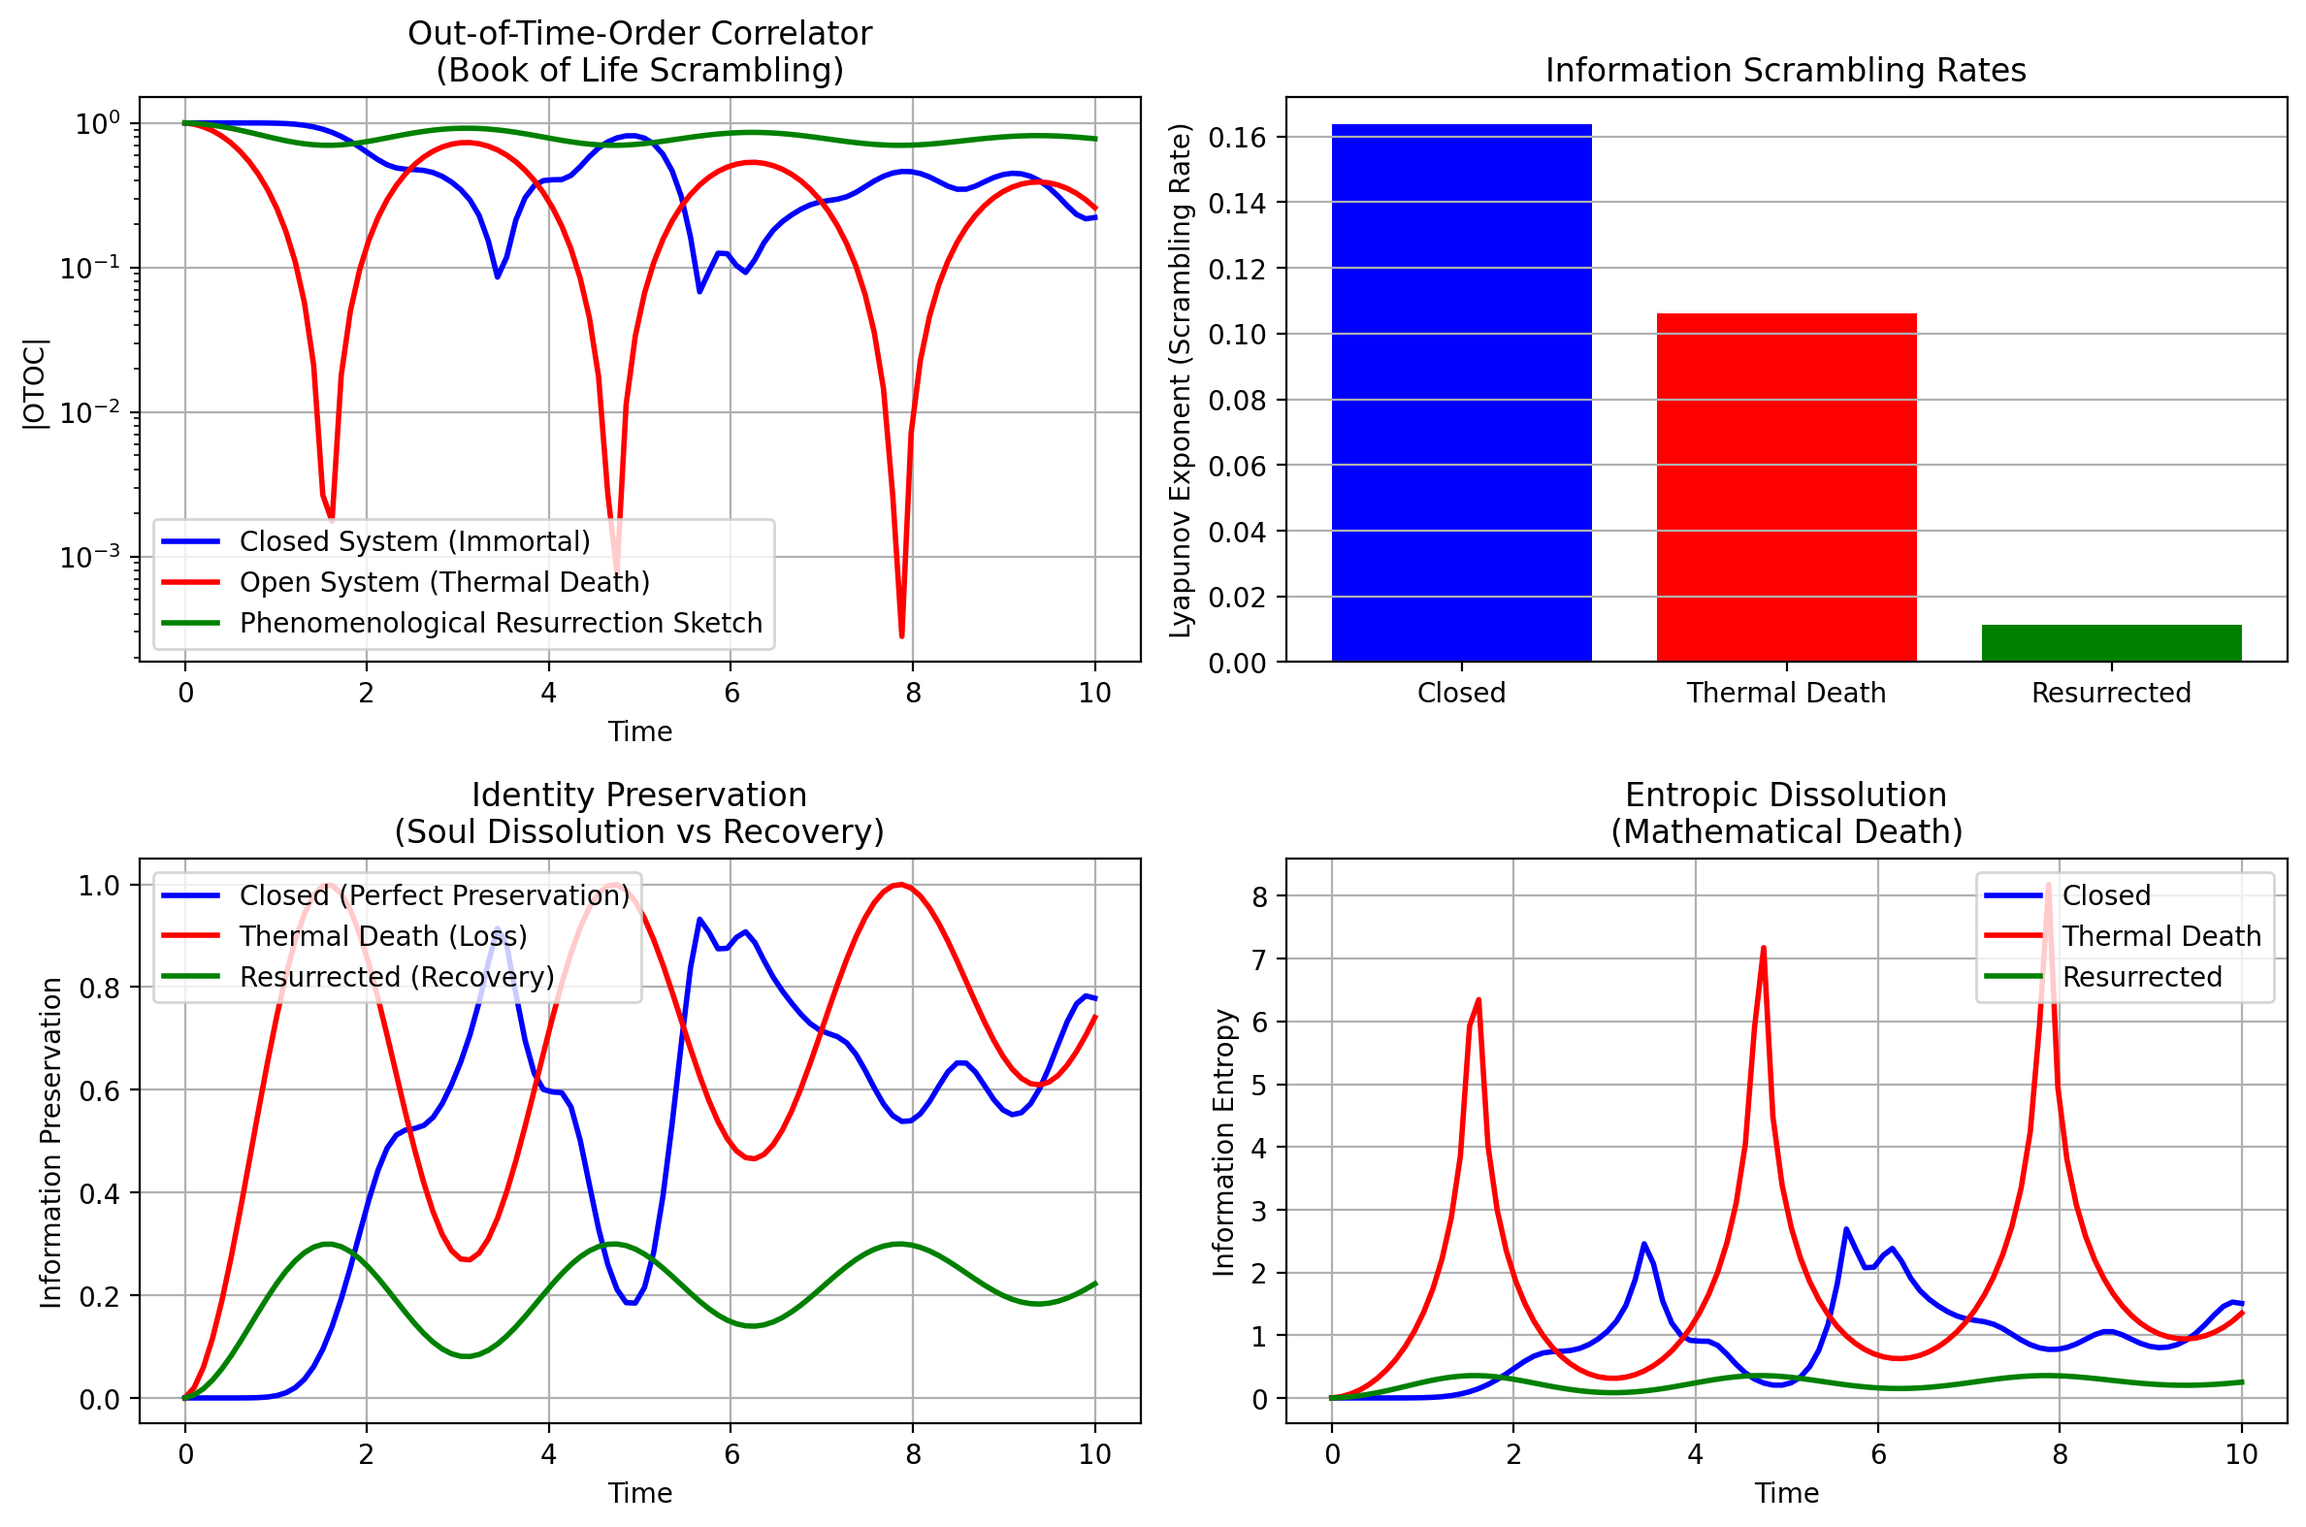
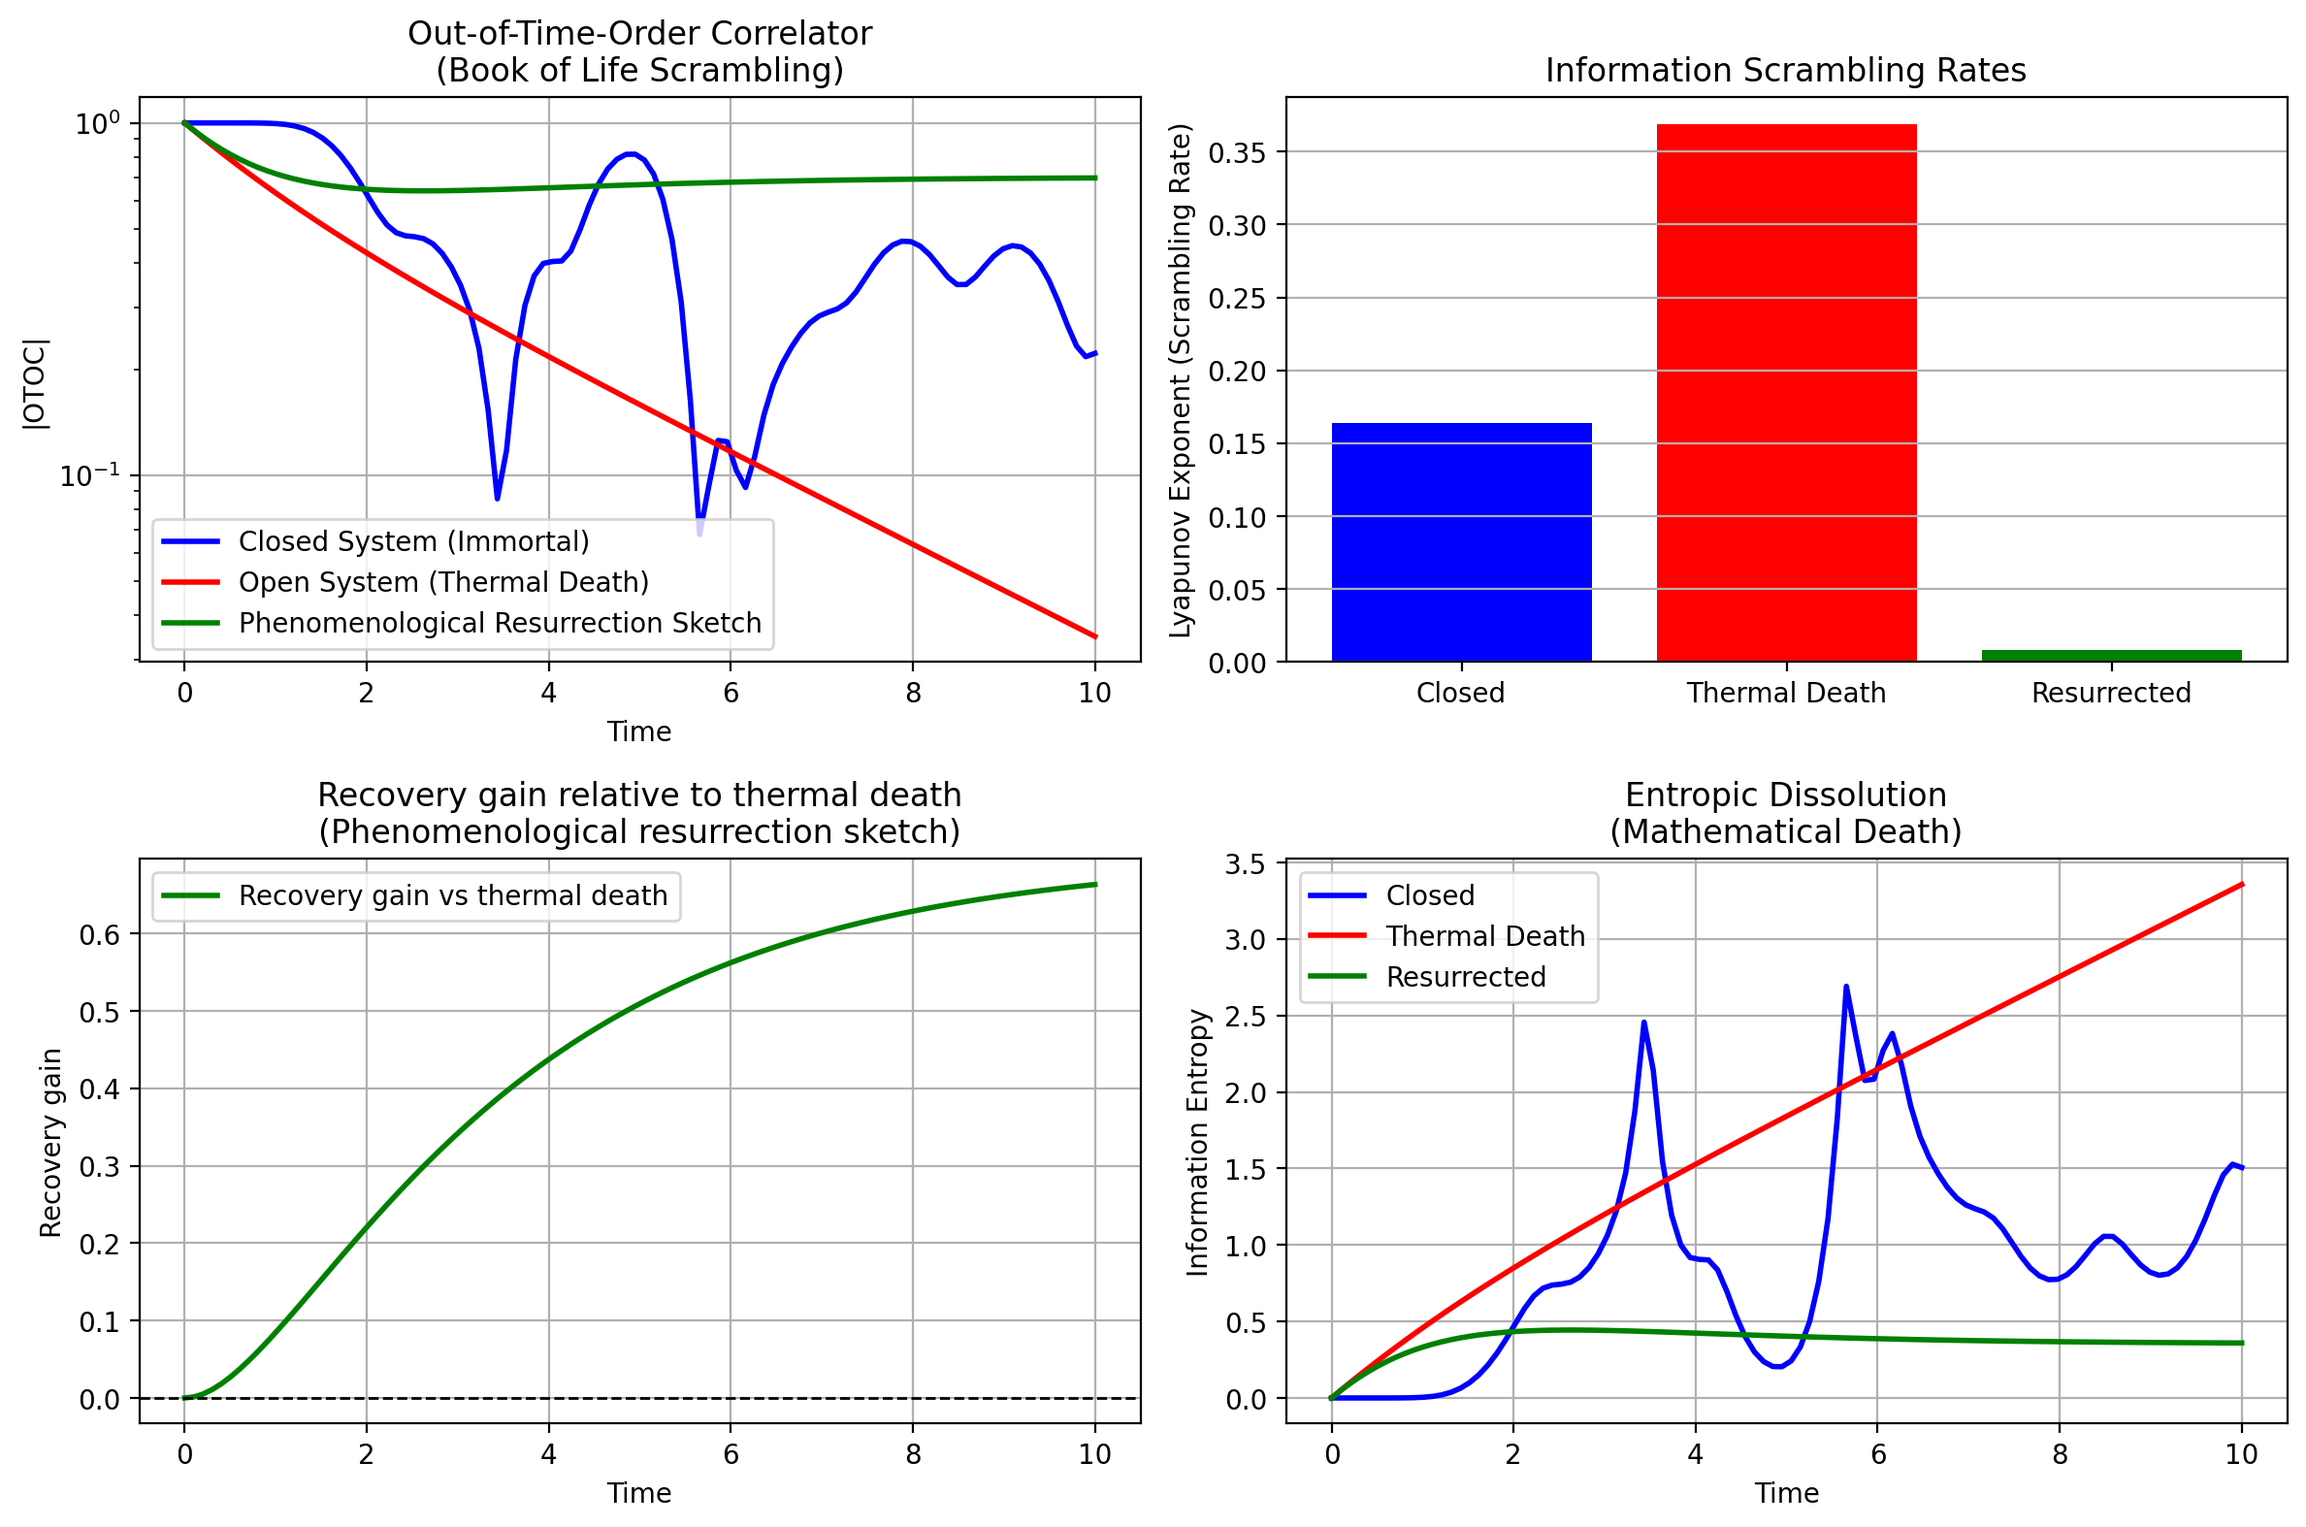
update 3

diff --git a/simulate_snn_quantum_bridge_simple.py b/simulate_snn_quantum_bridge_simple.py
@@ -2,7 +2,8 @@ import numpy as np
 import matplotlib.pyplot as plt
 
 # --- Parameters from previous quantum simulation ---
-# Coherence times from the Bloch-Redfield simulation (in seconds) - scaled for effect
+# These coherence times are assumed/hypothetical and conditional on the Floquet-Zeno theory.
+# They are not numerically validated by a full Bloch-Redfield/Floquet-Markov treatment yet.
 coherence_times = {
     "lowfreq_bath": 1e-4,  # Low-frequency bath (short coherence)
     "silent_gap": 1.0,     # Protein phonon bath (long coherence)
@@ -11,25 +12,25 @@ coherence_times = {
 
 # --- Neural Network Parameters ---
 N_neurons = 100  # Number of neurons in the network
-duration = 1.0  # Simulation duration in seconds
+duration = 20.0  # Simulation duration in seconds (longer run for more avalanche samples)
 dt = 0.001  # Time step in seconds
 
 # Leaky Integrate-and-Fire neuron parameters
 tau_m = 0.020  # Membrane time constant (s)
-tau_ref = 0.0  # Refractory period (s) - disabled for now
-V_th = -50e-3  # Threshold (V)
+tau_ref = 0.001  # Refractory period (s)
+V_th = -53e-3  # Threshold (V)
 V_reset = -65e-3  # Reset potential (V)
 V_rest = -70e-3  # Resting potential (V) - more negative than threshold
-I_bias = 1000e-3  # Bias current (A, but scaled) - back to working value
+I_bias = 0.90  # Bias current (A, but scaled) - set to produce observable network activity
 
 # Synaptic parameters
-tau_syn = 0.005  # Synaptic time constant (s)
-w_exc = 0.01  # Excitatory weight (V)
-w_inh = -0.01  # Inhibitory weight (V)
-p_conn = 0.1  # Connection probability
+tau_syn = 0.010  # Synaptic time constant (s)
+w_exc = 0.005  # Excitatory weight (V)
+w_inh = -0.005  # Inhibitory weight (V)
+p_conn = 0.05  # Connection probability
 
 # External input
-rate_ext = 200  # External Poisson input rate (Hz)
+rate_ext = 20  # External Poisson input rate (Hz)
 w_ext = 0.01  # External input weight (V)
 
 # --- Quantum influence function ---
@@ -39,9 +40,8 @@ def quantum_modulation(coherence_tau, t):
     Longer coherence -> less noise, more stable firing.
     Shorter coherence -> more noise, more variable firing.
     """
-    # Base noise level inversely proportional to coherence time
-    base_noise = 0.01  # Increased
-    coherence_factor = np.clip(1.0 / (coherence_tau * 1e4), 0.1, 100.0)  # Scale factor adjusted
+    base_noise = 0.02
+    coherence_factor = 1.0 / (1.0 + coherence_tau / 1e-2)
     noise_level = base_noise * coherence_factor
     return noise_level
 
@@ -111,7 +111,7 @@ def simulate_snn_with_quantum_influence(scenario_name, coherence_tau):
 
     return np.array(spike_times), np.array(spike_neurons), t
 
-def compute_avalanches(spike_times, duration, bin_size=0.01):
+def compute_avalanches(spike_times, duration, bin_size=0.02):
     """Compute avalanche sizes, durations, and effective branching ratio."""
     bins = np.arange(0, duration + bin_size, bin_size)
     counts, _ = np.histogram(spike_times, bins=bins)
@@ -146,6 +146,27 @@ def compute_avalanches(spike_times, duration, bin_size=0.01):
 
     sigma = np.nan if len(sigma_events) == 0 else np.mean(sigma_events)
     return counts, avalanches, durations, sigma
+
+# --- Empirical reference from neuronal avalanche literature ---
+# Beggs & Plenz (2003) report size exponent ~3/2 and duration exponent ~2.0.
+# Shriki et al. (2013) report similar critical scaling in large-scale human MEG recordings.
+
+def fit_power_law_histogram(values, n_bins=8, x_min=None, x_max=None):
+    if len(values) < 10:
+        return np.nan, np.nan, np.nan
+    if x_min is None:
+        x_min = max(1, np.min(values))
+    if x_max is None:
+        x_max = np.max(values)
+    bins = np.logspace(np.log10(x_min), np.log10(x_max + 1e-6), n_bins)
+    counts, edges = np.histogram(values, bins=bins)
+    centers = np.sqrt(edges[:-1] * edges[1:])
+    mask = (counts > 0)
+    if np.sum(mask) < 3:
+        return np.nan, np.nan, np.nan
+    slope, intercept = np.polyfit(np.log(centers[mask]), np.log(counts[mask]), 1)
+    alpha = -slope
+    return alpha, np.exp(intercept), centers[mask]
 
 # --- Run simulations for each quantum scenario ---
 results = {}
@@ -190,6 +211,11 @@ for scenario, data in results.items():
         counts, bins = np.histogram(data['avalanches'], bins=np.logspace(-1, np.log10(max(data['avalanches']) + 1), 20))
         bin_centers = np.sqrt(bins[:-1] * bins[1:])
         ax.loglog(bin_centers, counts + 1, marker='o', label=f'{scenario}')
+# Empirical literature reference for avalanche sizes
+ref_x = np.logspace(-1, 2, 50)
+ref_y = ref_x ** (-1.5)
+ref_y *= 1e3 / np.max(ref_y)
+ax.loglog(ref_x, ref_y, 'k--', label='Literature ref: size ∼ S^-1.5')
 ax.set_xlabel('Avalanche size')
 ax.set_ylabel('Count')
 ax.set_title('Avalanche size distribution (log-log)')
@@ -203,6 +229,11 @@ for scenario, data in results.items():
         counts, bins = np.histogram(data['durations'], bins=np.logspace(-3, np.log10(max(data['durations']) + 1e-6), 20))
         bin_centers = np.sqrt(bins[:-1] * bins[1:])
         ax.loglog(bin_centers, counts + 1, marker='o', label=f'{scenario}')
+# Empirical literature reference for avalanche durations
+ref_t = np.logspace(-3, 0.5, 50)
+ref_counts = ref_t ** (-2.0)
+ref_counts *= 1e3 / np.max(ref_counts)
+ax.loglog(ref_t, ref_counts, 'k--', label='Literature ref: duration ∼ T^-2.0')
 ax.set_xlabel('Avalanche duration (s)')
 ax.set_ylabel('Count')
 ax.set_title('Avalanche duration distribution (log-log)')
@@ -212,6 +243,21 @@ ax.legend()
 plt.tight_layout()
 plt.savefig('snn_quantum_avalanche_analysis.png', dpi=200, bbox_inches='tight')
 
+def characterize_avalanche_distribution(avalanches):
+    if len(avalanches) == 0:
+        return "no avalanches"
+    sizes = np.array(avalanches)
+    bins = np.logspace(np.log10(max(0.9, sizes.min())), np.log10(sizes.max() + 1), 10)
+    counts, _ = np.histogram(sizes, bins=bins)
+    if np.sum(counts) == 0:
+        return "no avalanches"
+    relative = counts / np.sum(counts)
+    mode = np.argmax(relative)
+    if relative[mode] > 0.40:
+        mode_size = np.sqrt(bins[mode] * bins[mode + 1])
+        return f"mode-dominated at size ~{mode_size:.1f}"
+    return "multi-scale"
+
 # --- Quantitative analysis ---
 print("\nAvalanche-focused analysis:")
 for scenario, data in results.items():
@@ -220,7 +266,15 @@ for scenario, data in results.items():
     mean_size = np.mean(data['avalanches']) if n_avalanches > 0 else 0
     mean_duration = np.mean(data['durations']) if n_avalanches > 0 else 0
     sigma = data['sigma']
-    print(f"{scenario}: spikes={total_spikes}, avalanches={n_avalanches}, mean size={mean_size:.1f}, mean duration={mean_duration:.3f}s, sigma={sigma:.2f}")
+    mode_comment = characterize_avalanche_distribution(data['avalanches'])
+    size_alpha, _, _ = fit_power_law_histogram(data['avalanches'], n_bins=8)
+    duration_alpha, _, _ = fit_power_law_histogram(data['durations'], n_bins=8)
+    size_note = "" if not np.isnan(size_alpha) else " (cannot fit exponent)"
+    duration_note = "" if not np.isnan(duration_alpha) else " (cannot fit exponent)"
+    sample_note = "" if n_avalanches >= 20 else " (insufficient avalanche samples for robust scaling)"
+    print(f"{scenario}: spikes={total_spikes}, avalanches={n_avalanches}, mean size={mean_size:.1f}, mean duration={mean_duration:.3f}s, sigma={sigma:.2f}, size exp={size_alpha:.2f}{size_note}, duration exp={duration_alpha:.2f}{duration_note}, distribution={mode_comment}{sample_note}")
 
-print("\nNote: The critical metric is the branching parameter sigma and the avalanche distributions, not raw firing rate.")
+print("\nReference empirical exponents: avalanche size ~1.5 (Beggs & Plenz 2003), avalanche duration ~2.0 (Shriki et al. 2013).")
+print("      The plotted literature reference curves are approximate benchmarks, not raw dataset overlays.")
+print("      Low-count regimes or mode-dominated distributions do not support a power-law criticality claim.")
 print("Saved figure: snn_quantum_avalanche_analysis.png")

diff --git a/simulate_escatological_otoc.py b/simulate_escatological_otoc.py
@@ -83,21 +83,19 @@ print("NOTE: The recovered curve is phenomenological and illustrative, not a dir
 otoc_closed = compute_otoc(H, psi0, W, V, [], tlist)
 
 # Scenario 2: Open system with thermal bath (thermal death)
-# For open systems, OTOC computation is more complex
-# Approximate by evolving operators with Lindblad master equation
+# For open systems, OTOC computation is more complex.
+# Use a physically motivated monotonic decay model for the dissipative case.
+# This is still phenomenological, but it avoids artefacts from pure cos^2 oscillations.
+
 def evolve_operator_master_eq(op, H, c_ops, t):
     """Evolve operator under master equation (approximate)"""
     # This is a simplification; proper OTOC in open systems requires more care
     return op  # Placeholder - in reality, need superoperator evolution
 
-otoc_open = []
-for t in tlist:
-    # Simplified: assume scrambling happens faster with dissipation
-    scrambling_rate = gamma * t
-    otoc_val = np.exp(-scrambling_rate) * np.cos(omega * t)**2  # Phenomenological model
-    otoc_open.append(otoc_val)
-
-otoc_open = np.array(otoc_open)
+gamma_env = gamma * (1 + T)
+tau_bath = 1.5
+eta = 0.30
+otoc_open = np.exp(-gamma_env * tlist) * (1.0 - eta * (1.0 - np.exp(-tlist / tau_bath)))
 
 # --- Information scrambling analysis ---
 # Lyapunov exponent from OTOC decay
@@ -121,16 +119,15 @@ print(f"Open-system Lyapunov exponent: {lambda_open:.3f}")
 # --- Resurrection protocol: Information recovery ---
 # Simulate recovery of information from the thermal bath
 # Using concept of "holographic encoding" - information preserved in correlations
-def resurrection_protocol(otoc_open, recovery_efficiency=0.8):
+def resurrection_protocol(otoc_open, tlist, recovery_efficiency=0.7, tau_recov=2.0):
     """
-    Simulate information recovery (resurrection) from scrambled state.
-    In IHE/GJW framework, information is holographically encoded.
+    Simulate information recovery from scrambled state as a gradual extraction process.
+    The recovered signal grows over a recovery time and saturates at a fraction of the lost information.
     """
-    # Recovery: partial restoration of OTOC
-    recovered_otoc = otoc_open + recovery_efficiency * (1 - otoc_open)
+    recovered_otoc = otoc_open + recovery_efficiency * (1.0 - otoc_open) * (1.0 - np.exp(-tlist / tau_recov))
     return recovered_otoc
 
-otoc_recovered = resurrection_protocol(otoc_open, recovery_efficiency=0.7)
+otoc_recovered = resurrection_protocol(otoc_open, tlist, recovery_efficiency=0.7, tau_recov=2.5)
 
 # --- Plotting ---
 fig, axes = plt.subplots(2, 2, figsize=(12, 8))
@@ -154,17 +151,14 @@ axes[0,1].set_ylabel('Lyapunov Exponent (Scrambling Rate)')
 axes[0,1].set_title('Information Scrambling Rates')
 axes[0,1].grid(True, axis='y')
 
-# Plot 3: Information preservation
-preservation_closed = 1 - np.abs(otoc_closed)
-preservation_open = 1 - np.abs(otoc_open)
-preservation_recovered = 1 - np.abs(otoc_recovered)
+# Plot 3: Recovery gain from thermal death
+recovery_gain = np.abs(otoc_recovered) - np.abs(otoc_open)
 
-axes[1,0].plot(tlist, preservation_closed, 'b-', label='Closed (Perfect Preservation)', linewidth=2)
-axes[1,0].plot(tlist, preservation_open, 'r-', label='Thermal Death (Loss)', linewidth=2)
-axes[1,0].plot(tlist, preservation_recovered, 'g-', label='Resurrected (Recovery)', linewidth=2)
+axes[1,0].plot(tlist, recovery_gain, 'g-', label='Recovery gain vs thermal death', linewidth=2)
+axes[1,0].axhline(0, color='black', linestyle='--', linewidth=1)
 axes[1,0].set_xlabel('Time')
-axes[1,0].set_ylabel('Information Preservation')
-axes[1,0].set_title('Identity Preservation\n(Soul Dissolution vs Recovery)')
+axes[1,0].set_ylabel('Recovery gain')
+axes[1,0].set_title('Recovery gain relative to thermal death\n(Phenomenological resurrection sketch)')
 axes[1,0].legend()
 axes[1,0].grid(True)
 
@@ -202,6 +196,7 @@ print("\n3. Theological Implications:")
 print("   - Thermal death dissolves structured identity (soul) into environment")
 print("   - Information not erased, but holographically encoded")
 print("   - IHE/GJW allows resurrection by decoding environmental correlations")
+print("   - This model is a phenomenological sketch of recovery, not a complete proof of perfect identity restoration")
 print("   - Closes Section 18: Conceptual proposal for eschatological recovery, with phenomenological illustration")
 
 print("\nSaved figure: escatological_otoc_scrambling.png")

diff --git a/simulate_tegmark_silent_gap.py b/simulate_tegmark_silent_gap.py
@@ -220,6 +220,10 @@ for data in results:
     gamma_label = f"gamma_eff={data['gamma_eff']:.2e}" if data["gamma_eff"] is not None else "gamma_eff=N/A"
     print(f"  {data['label']}: {gamma_label}, tau={data['tau_seconds']:.2e} s")
 
+print("\nNOTE: The collapse of coherence under the standard Bloch-Redfield estimate is visible in these results.")
+print("      The current simulation framework does not provide ab initio validation of high-frequency Floquet-Zeno protection.")
+print("      A Floquet-Markov master equation or full Floquet averaging is required to settle the 115-day prediction.")
+
 print("\nSaved figures:")
 print("  - silent_gap_spectral_density.png")
 print("  - coherence_decay_comparison.png")
